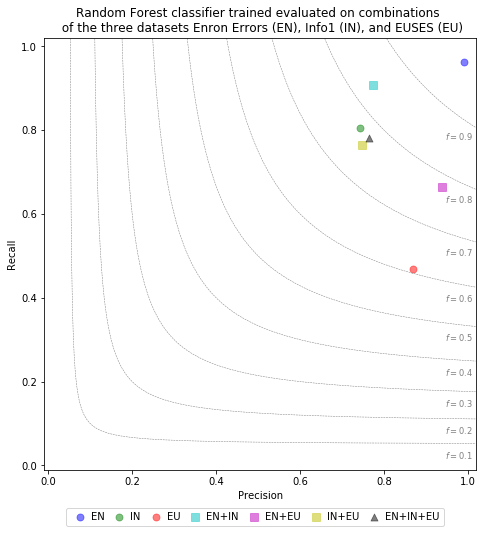
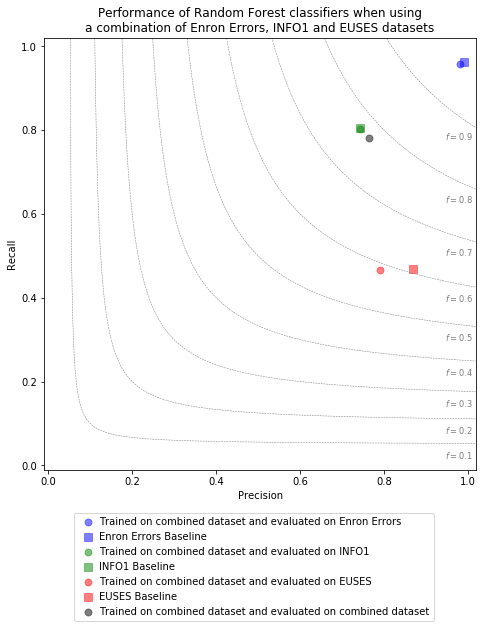
page updates

diff --git a/_site/study1.html b/_site/study1.html
@@ -19,7 +19,7 @@
 
     <meta name="viewport" content="width=device-width, initial-scale=1">
     <meta name="theme-color" content="#157878">
-    <link rel="stylesheet" href="/assets/css/style.css?v=da056cb49ab2ac78b9f297982bae2ec40f71582a">
+    <link rel="stylesheet" href="/assets/css/style.css?v=299bc1af4f632ed81dc18eaf30cfbd7ab799309f">
     <title>Study 1</title>
   </head>
 
@@ -50,17 +50,24 @@
 
 <h1>Plots</h1>
   <p>
-    Plots are organized into groups based on the used ML model (Decision Tree, Logistic Regression, Threshold) and on which dataset the respective model was trained and evaluated on.
+    The plots are organized into groups based on the used ML model and on which dataset the respective model was trained and evaluated on.
+    The models we used for our evaluation are:
+(Decision Tree, Logistic Regression, Threshold)
+    <ul>
+      <li><a title="Decision trees" href="#decisionTrees">Decision trees</a></li>
+      <li><a title="Logistiic regression models" href="#logisticRegression">Logistic regression models</a></li>
+      <li><a title="Custom threshold models" href="#threshold">Custom threshold models</a></li>
+    </ul>
   </p>
-  <h2>  Decision Trees </h2>
+  <h2 id="decisionTrees">Decision Trees </h2>
     <p><img src="appendix/plots/single/singleMetric_decisionTree_ENRON.png" alt="decision tree ENRON" /></p>
     <p><img src="appendix/plots/single/singleMetric_decisionTree_INFO1.png" alt="decision tree INFO1" /></p>
     <p><img src="appendix/plots/single/singleMetric_decisionTree_EUSES.png" alt="decision tree EUSES" /></p>
-  <h2>  Logistic Regression models </h2>
+  <h2 id="logisticRegression">Logistic Regression models </h2>
     <p><img src="appendix/plots/single/singleMetric_logReg_ENRON.png" alt="logistic regression ENRON" /></p>
     <p><img src="appendix/plots/single/singleMetric_logReg_INFO1.png" alt="logistic regression INFO1" /></p>
     <p><img src="appendix/plots/single/singleMetric_logReg_EUSES.png" alt="logistic regression EUSES" /></p>
-  <h2>  Threshold classifiers</h2>
+  <h2 id="threshold">Threshold classifiers</h2>
     <p><img src="appendix/plots/single/singleMetric_threshold_ENRON.png" alt="threshold classifier ENRON" /></p>
     <p><img src="appendix/plots/single/singleMetric_threshold_INFO1.png" alt="threshold classifier INFO1" /></p>
     <p><img src="appendix/plots/single/singleMetric_threshold_EUSES.png" alt="threshold classifier EUSES" /></p>

diff --git a/_site/datasetCombination.html b/_site/datasetCombination.html
@@ -19,7 +19,7 @@
 
     <meta name="viewport" content="width=device-width, initial-scale=1">
     <meta name="theme-color" content="#157878">
-    <link rel="stylesheet" href="/assets/css/style.css?v=da056cb49ab2ac78b9f297982bae2ec40f71582a">
+    <link rel="stylesheet" href="/assets/css/style.css?v=299bc1af4f632ed81dc18eaf30cfbd7ab799309f">
     <title>Dataset combination</title>
   </head>
 
@@ -33,7 +33,7 @@
       <h1>Description</h1>
   <p>
     In addition to the studies presented in the paper we also investigated the effect of using a combinatio of datsets for training and evaluation of fault prediction classifiers.
-    In specific, we trained and evaluated Random Forest models using different combinations of our available datasets (Enron Errors, Info1, Euses).
+    In specific, we trained Random Forest models using a combination of our available datasets (Enron Errors, Info1, Euses), and evaluated the resulting predictors both using individual datasets, and using the combined dataset.
     The same gridsearch and crossvalidation approach as described for the main studies was employed for this evaluation.
   </p>
 <h1>Plot Type</h1>
@@ -44,13 +44,9 @@
     Likewise, its vertical precision corresponds to the Recall score of the evaluated model.
     Lastly, the symbol's position in relation to radial lines indicate the model's achieved F1 measure.
   </p>
-  <p>
-    We use abbreviations of the datasets in the legend (EN = Enron Errors, IN = Info1, EU = Euses).
-    Plot entries that concatenate different datasets using a "+" symbol signify the results of a model that was trained and evaluated on a combination of the named datasets.
-    E.g. "EN+IN" shows the result of the Random Forest model trained and evaluated on a combination of the "Enron Errors" and "Info1" datasets.
-  </p>
 <h1>Plot</h1>
-  <p><img src="appendix/plots/datasetCombination/comparison.png" alt="evaluation results of RF classifiers trained using combinations of the different datasets" /><a title="(Data CSV))" href="appendix/data/datasetCombination/comparison.csv">Data CSV</a></p>
+  <p><img src="appendix/plots/datasetCombination/comparison.png" alt="evaluation results of RF classifiers trained using combinations of the different datasets" /></p>
+  <p>Plot data in <a title="CSV format" href="appendix/data/datasetCombination/comparison.csv">CSV format</a></p>
 
     </section>
   </body>

diff --git a/_site/index.html b/_site/index.html
@@ -19,7 +19,7 @@
 
     <meta name="viewport" content="width=device-width, initial-scale=1">
     <meta name="theme-color" content="#157878">
-    <link rel="stylesheet" href="/assets/css/style.css?v=da056cb49ab2ac78b9f297982bae2ec40f71582a">
+    <link rel="stylesheet" href="/assets/css/style.css?v=299bc1af4f632ed81dc18eaf30cfbd7ab799309f">
   </head>
   <body>
     <section class="page-header">
@@ -77,15 +77,15 @@
           <li><a href="study1.html">Study 1: Individual metrics as fault predictors</a></li>
           <li><a href="study2.html">Study 2: Fault prediction with multiple metrics</a></li>
         </ul>
-        <p> And also adds descriptions and results of additional experiments that were not part of the main studies:</p>
+        <p> And adds descriptions and results of additional experiments that were not part of the main studies, but were discussed at the specified locations in the manuscript:</p>
         <ul>
-          <li><a href="limitingFeatures.html">Effect of limiting features on Random Forest classifiers</a></li>
-          <li><a href="featureImportances.html">Most important features of Random Forest classifiers</a></li>
-          <li><a href="transferLearning.html">Transfer learning between datasets</a></li>
-          <li><a href="trainingCombination.html">Combination of datasets for training</a></li>
-          <li><a href="datasetCombination.html">Combination of datasets for evaluation</a></li>
+          <li><a href="datasetCombination.html">6.4: Evaluation of combined models</a></li>
+          <li><a href="limitingFeatures.html">7.2.2: Effect of limiting features on Random Forest classifiers</a></li>
+          <li><a href="featureImportances.html">7.2.2: Most important features of trained Random Forest classifiers</a></li>
+          <!--<li><a href="transferLearning.html">Transfer learning between datasets</a></li>-->
+
         </ul>
-        <p> A <a title="Pdf appendix" href="appendix/appendix.pdf">pdf appendix</a> provides additinal information and explanations for studies one and two.</p>
+        <!--<p> A <a title="Pdf appendix" href="appendix/appendix.pdf">pdf appendix</a> provides additinal information and explanations for studies one and two.</p>-->
 
       <footer class="site-footer">
         

diff --git a/study1.html b/study1.html
@@ -23,17 +23,24 @@ description: Study 1 - Individual metrics as fault predictors
 
 <h1>Plots</h1>
   <p>
-    Plots are organized into groups based on the used ML model (Decision Tree, Logistic Regression, Threshold) and on which dataset the respective model was trained and evaluated on.
+    The plots are organized into groups based on the used ML model and on which dataset the respective model was trained and evaluated on.
+    The models we used for our evaluation are:
+(Decision Tree, Logistic Regression, Threshold)
+    <ul>
+      <li><a title="Decision trees" href="#decisionTrees">Decision trees</a></li>
+      <li><a title="Logistiic regression models" href="#logisticRegression">Logistic regression models</a></li>
+      <li><a title="Custom threshold models" href="#threshold">Custom threshold models</a></li>
+    </ul>
   </p>
-  <h2>  Decision Trees </h2>
+  <h2 id="decisionTrees">Decision Trees </h2>
     <p><img src="appendix/plots/single/singleMetric_decisionTree_ENRON.png" alt="decision tree ENRON" /></p>
     <p><img src="appendix/plots/single/singleMetric_decisionTree_INFO1.png" alt="decision tree INFO1" /></p>
     <p><img src="appendix/plots/single/singleMetric_decisionTree_EUSES.png" alt="decision tree EUSES" /></p>
-  <h2>  Logistic Regression models </h2>
+  <h2 id="logisticRegression">Logistic Regression models </h2>
     <p><img src="appendix/plots/single/singleMetric_logReg_ENRON.png" alt="logistic regression ENRON" /></p>
     <p><img src="appendix/plots/single/singleMetric_logReg_INFO1.png" alt="logistic regression INFO1" /></p>
     <p><img src="appendix/plots/single/singleMetric_logReg_EUSES.png" alt="logistic regression EUSES" /></p>
-  <h2>  Threshold classifiers</h2>
+  <h2 id="threshold">Threshold classifiers</h2>
     <p><img src="appendix/plots/single/singleMetric_threshold_ENRON.png" alt="threshold classifier ENRON" /></p>
     <p><img src="appendix/plots/single/singleMetric_threshold_INFO1.png" alt="threshold classifier INFO1" /></p>
     <p><img src="appendix/plots/single/singleMetric_threshold_EUSES.png" alt="threshold classifier EUSES" /></p>

diff --git a/datasetCombination.html b/datasetCombination.html
@@ -6,7 +6,7 @@ description: Combination of datasets for evaluation
 <h1>Description</h1>
   <p>
     In addition to the studies presented in the paper we also investigated the effect of using a combinatio of datsets for training and evaluation of fault prediction classifiers.
-    In specific, we trained and evaluated Random Forest models using different combinations of our available datasets (Enron Errors, Info1, Euses).
+    In specific, we trained Random Forest models using a combination of our available datasets (Enron Errors, Info1, Euses), and evaluated the resulting predictors both using individual datasets, and using the combined dataset.
     The same gridsearch and crossvalidation approach as described for the main studies was employed for this evaluation.
   </p>
 <h1>Plot Type</h1>
@@ -17,10 +17,6 @@ description: Combination of datasets for evaluation
     Likewise, its vertical precision corresponds to the Recall score of the evaluated model.
     Lastly, the symbol's position in relation to radial lines indicate the model's achieved F1 measure.
   </p>
-  <p>
-    We use abbreviations of the datasets in the legend (EN = Enron Errors, IN = Info1, EU = Euses).
-    Plot entries that concatenate different datasets using a "+" symbol signify the results of a model that was trained and evaluated on a combination of the named datasets.
-    E.g. "EN+IN" shows the result of the Random Forest model trained and evaluated on a combination of the "Enron Errors" and "Info1" datasets.
-  </p>
 <h1>Plot</h1>
-  <p><img src="appendix/plots/datasetCombination/comparison.png" alt="evaluation results of RF classifiers trained using combinations of the different datasets" /><a title="(Data CSV))" href="appendix/data/datasetCombination/comparison.csv">Data CSV</a></p>
+  <p><img src="appendix/plots/datasetCombination/comparison.png" alt="evaluation results of RF classifiers trained using combinations of the different datasets" /></p>
+  <p>Plot data in <a title="CSV format" href="appendix/data/datasetCombination/comparison.csv">CSV format</a></p>

diff --git a/_layouts/default.html b/_layouts/default.html
@@ -67,15 +67,15 @@
           <li><a href="study1.html">Study 1: Individual metrics as fault predictors</a></li>
           <li><a href="study2.html">Study 2: Fault prediction with multiple metrics</a></li>
         </ul>
-        <p> And also adds descriptions and results of additional experiments that were not part of the main studies:</p>
+        <p> And adds descriptions and results of additional experiments that were not part of the main studies, but were discussed at the specified locations in the manuscript:</p>
         <ul>
-          <li><a href="limitingFeatures.html">Effect of limiting features on Random Forest classifiers</a></li>
-          <li><a href="featureImportances.html">Most important features of Random Forest classifiers</a></li>
-          <li><a href="transferLearning.html">Transfer learning between datasets</a></li>
-          <li><a href="trainingCombination.html">Combination of datasets for training</a></li>
-          <li><a href="datasetCombination.html">Combination of datasets for evaluation</a></li>
+          <li><a href="datasetCombination.html">6.4: Evaluation of combined models</a></li>
+          <li><a href="limitingFeatures.html">7.2.2: Effect of limiting features on Random Forest classifiers</a></li>
+          <li><a href="featureImportances.html">7.2.2: Most important features of trained Random Forest classifiers</a></li>
+          <!--<li><a href="transferLearning.html">Transfer learning between datasets</a></li>-->
+
         </ul>
-        <p> A <a title="Pdf appendix" href="appendix/appendix.pdf">pdf appendix</a> provides additinal information and explanations for studies one and two.</p>
+        <!--<p> A <a title="Pdf appendix" href="appendix/appendix.pdf">pdf appendix</a> provides additinal information and explanations for studies one and two.</p>-->
 
       <footer class="site-footer">
         {% if site.github.is_project_page %}

diff --git a/_site/study2.html b/_site/study2.html
@@ -19,7 +19,7 @@
 
     <meta name="viewport" content="width=device-width, initial-scale=1">
     <meta name="theme-color" content="#157878">
-    <link rel="stylesheet" href="/assets/css/style.css?v=da056cb49ab2ac78b9f297982bae2ec40f71582a">
+    <link rel="stylesheet" href="/assets/css/style.css?v=299bc1af4f632ed81dc18eaf30cfbd7ab799309f">
     <title>Study 2</title>
   </head>
 
@@ -110,13 +110,13 @@ The resulting best parameter values are listed in the following table.
 
 <h1>Plots</h1>
   <p>
-    Plots are organized into groups based on the employed plot type, first showing Precision / Recall / F1, and then Boxplots of the evaluation.
+    Plots are organized into groups based on the employed plot type, first showing <a title="Precision / Recall / F1 plots" href="#predictionPlots">Precision / Recall / F1 plots</a>, and then <a title="Boxplots" href="#boxplots">Boxplots</a> of the evaluation.
   </p>
-  <h2>  Precision / Recall / F1 plots </h2>
+  <h2 id="predictionPlots">  Precision / Recall / F1 plots </h2>
     <p><img src="appendix/plots/ensemble/ensemble_ENRON.png" alt="ensemble ENRON" /></p>
     <p><img src="appendix/plots/ensemble/ensemble_INFO1.png" alt="ensemble INFO1" /></p>
     <p><img src="appendix/plots/ensemble/ensemble_EUSES.png" alt="ensemble EUSES" /></p>
-  <h2> Boxplots </h2>
+  <h2 id="boxplots"> Boxplots </h2>
     <p>
       <figcaption>Enron Errors</figcaption>
       <img src="appendix/plots/boxplots/boxplot_ENRON.png" alt="boxplot ENRON" />

diff --git a/study2.html b/study2.html
@@ -83,13 +83,13 @@ The resulting best parameter values are listed in the following table.
 
 <h1>Plots</h1>
   <p>
-    Plots are organized into groups based on the employed plot type, first showing Precision / Recall / F1, and then Boxplots of the evaluation.
+    Plots are organized into groups based on the employed plot type, first showing <a title="Precision / Recall / F1 plots" href="#predictionPlots">Precision / Recall / F1 plots</a>, and then <a title="Boxplots" href="#boxplots">Boxplots</a> of the evaluation.
   </p>
-  <h2>  Precision / Recall / F1 plots </h2>
+  <h2 id="predictionPlots">  Precision / Recall / F1 plots </h2>
     <p><img src="appendix/plots/ensemble/ensemble_ENRON.png" alt="ensemble ENRON" /></p>
     <p><img src="appendix/plots/ensemble/ensemble_INFO1.png" alt="ensemble INFO1" /></p>
     <p><img src="appendix/plots/ensemble/ensemble_EUSES.png" alt="ensemble EUSES" /></p>
-  <h2> Boxplots </h2>
+  <h2 id="boxplots"> Boxplots </h2>
     <p>
       <figcaption>Enron Errors</figcaption>
       <img src="appendix/plots/boxplots/boxplot_ENRON.png" alt="boxplot ENRON" />

diff --git a/limitingFeatures.html b/limitingFeatures.html
@@ -24,4 +24,5 @@ description: Effect of limiting features on Random Forest classifiers
     The bracket information provides insight as to how many of the most important features were used for training and  evaluation.
   </p>
 <h1>Plot</h1>
-  <p><img src="appendix/plots/limitedFeatures/comparision.png" alt="results of RF classifiers trained using only the 5 most important features" /><a title="(Data CSV))" href="appendix/data/limitedFeatures/comparision.csv">Data CSV</a></p>
+  <p><img src="appendix/plots/limitedFeatures/comparision.png" alt="results of RF classifiers trained using only the 5 most important features" /></p>
+  <p>Plot data in <a title="CSV format" href="appendix/data/limitedFeatures/comparision.csv">CSV format</a></p>

diff --git a/_site/trainingCombination.html b/_site/trainingCombination.html
@@ -19,7 +19,7 @@
 
     <meta name="viewport" content="width=device-width, initial-scale=1">
     <meta name="theme-color" content="#157878">
-    <link rel="stylesheet" href="/assets/css/style.css?v=da056cb49ab2ac78b9f297982bae2ec40f71582a">
+    <link rel="stylesheet" href="/assets/css/style.css?v=299bc1af4f632ed81dc18eaf30cfbd7ab799309f">
     <title>Training data combination</title>
   </head>
 

diff --git a/_site/transferLearning.html b/_site/transferLearning.html
@@ -19,7 +19,7 @@
 
     <meta name="viewport" content="width=device-width, initial-scale=1">
     <meta name="theme-color" content="#157878">
-    <link rel="stylesheet" href="/assets/css/style.css?v=da056cb49ab2ac78b9f297982bae2ec40f71582a">
+    <link rel="stylesheet" href="/assets/css/style.css?v=299bc1af4f632ed81dc18eaf30cfbd7ab799309f">
     <title>Transfer learning</title>
   </head>
 
